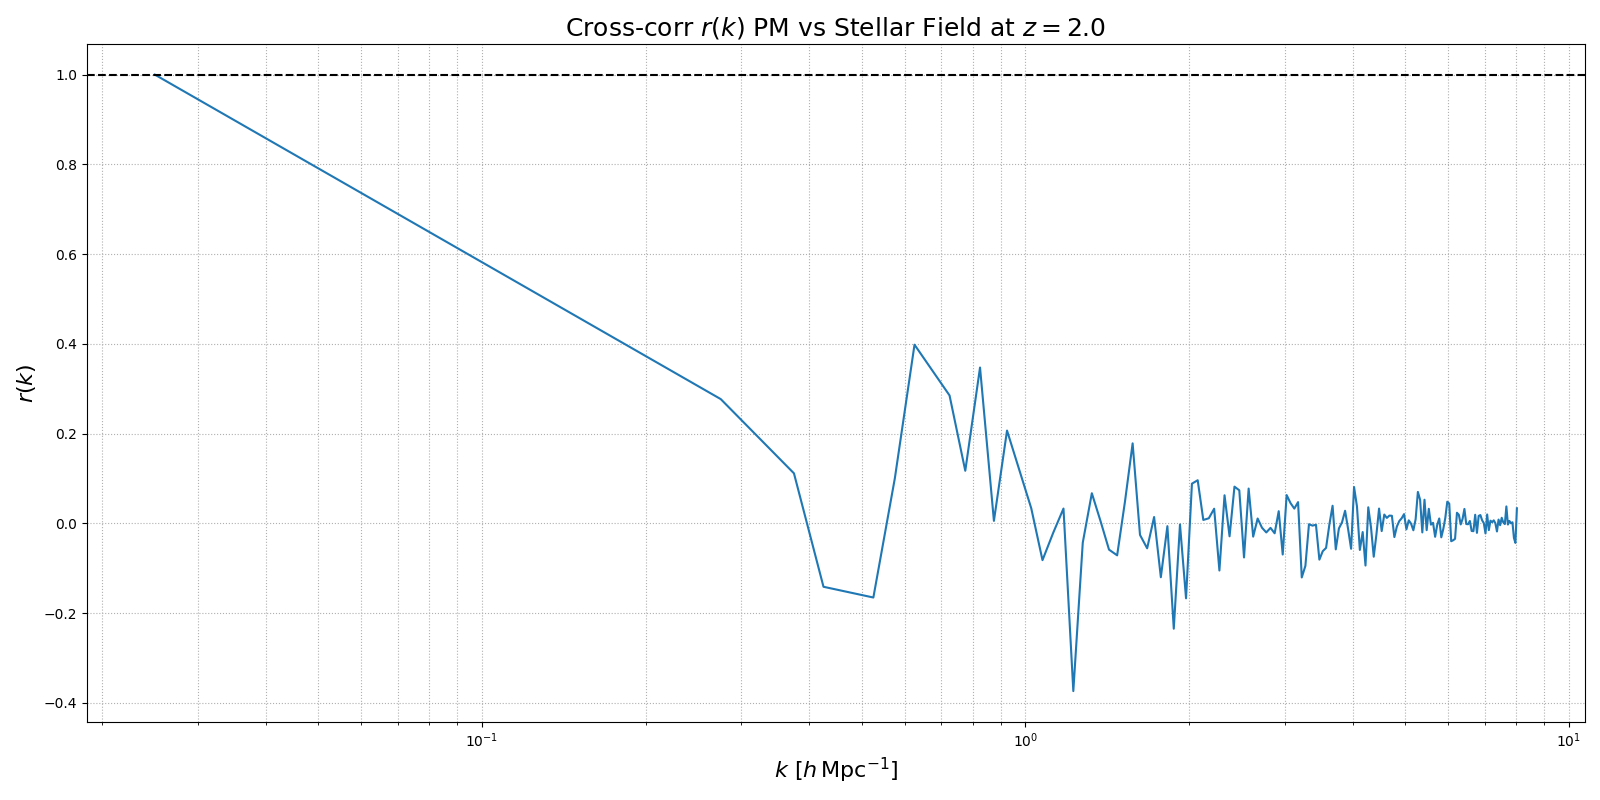
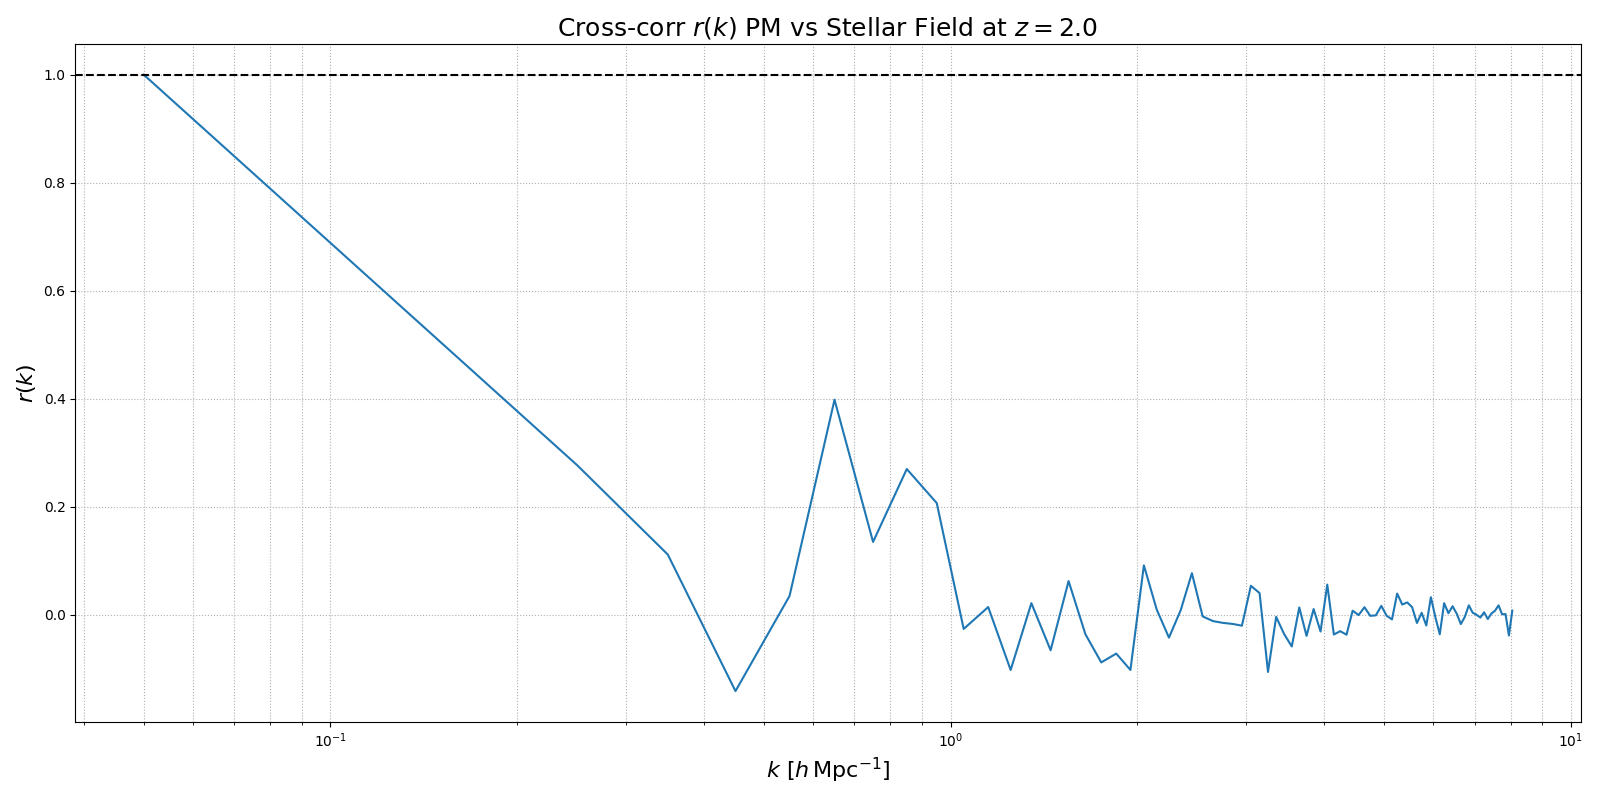
edits to star training

diff --git a/stellar_nn.py b/stellar_nn.py
@@ -4,9 +4,9 @@ from flax import linen as nn
 
 #CNN for Star model
 class StarCNN(nn.Module):
-    num_channels: int = 64  #channels
-    num_layers: int = 4     #conv layers
-    kernel_size: int = 3
+    num_channels: int = 1  #channels
+    num_layers: int = 1     #conv layers
+    kernel_size: int = 1
 
     def periodic_pad(self, x, pad): # wrapping padding thing
         return jnp.pad(

diff --git a/CAMELSpmstarcorr.py b/CAMELSpmstarcorr.py
@@ -317,7 +317,7 @@ print("stellar_field shape:", grid3dstellar.shape)
 print("BoxSize:", box_size)
 
 kmin = 0.0
-dk = 0.05
+dk = 0.10
 kmax = np.pi * (64 / 25)
 kbins = np.arange(kmin, kmax + dk, dk)
 
